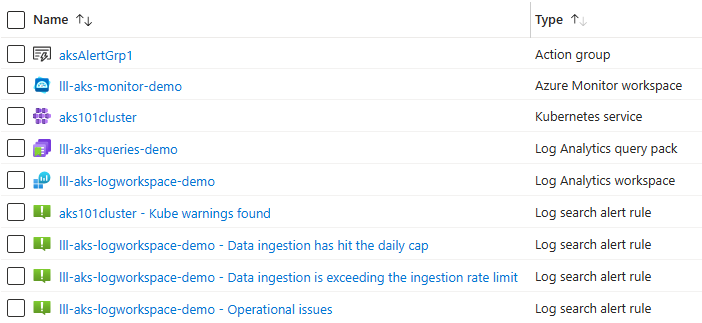
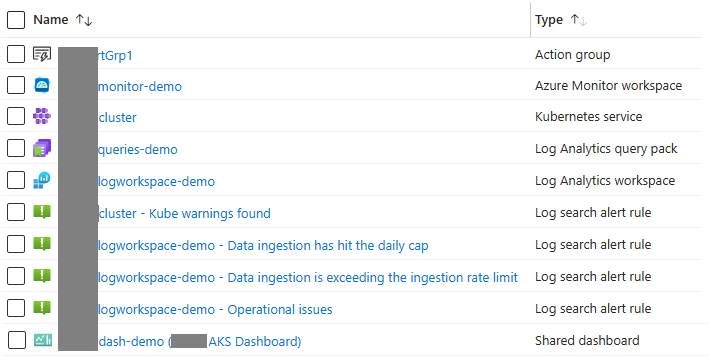
Update readme and images

diff --git a/readme.md b/readme.md
@@ -12,19 +12,20 @@ The bicep and pipeline in this project will generate:
 - Some alerts for an array of AKS Clusters
 - Some alerts for an array of AKS Containers
 - Some alerts for an array of AKS Pods
+- A sample Dashboard with a couple of modules
 
 ### Example Resources Created
 
 ![Example](./docs/SampleResources.png)
 
-### Contents of Query Pack lll-aks-queries-demo
+### Contents of Query Pack
 
-Display Name                        | Name
------------------------------------ | ------------------------------------
-Pod Log Messages: store-front-kr4xx | a29f7776-7381-5f99-bc9a-978916c5b8b5
-Container Log Messages: bogus-front | 734c881f-43c0-5dec-b0d5-7aea4ff933f2
-Container Log Messages: store-front | 5ed594b8-3969-5f48-bf35-ed05950eab46
-Pod Log Messages: bogus-store-kr4xx | ca4563d6-7f49-5605-afbc-e9045197a679
+Name:
+
+- Pod Log Messages: store-front-kr4xx
+- Container Log Messages: bogus-front
+- Container Log Messages: store-front
+- Pod Log Messages: bogus-store-kr4xx
 
 ## Prerequisites
 
